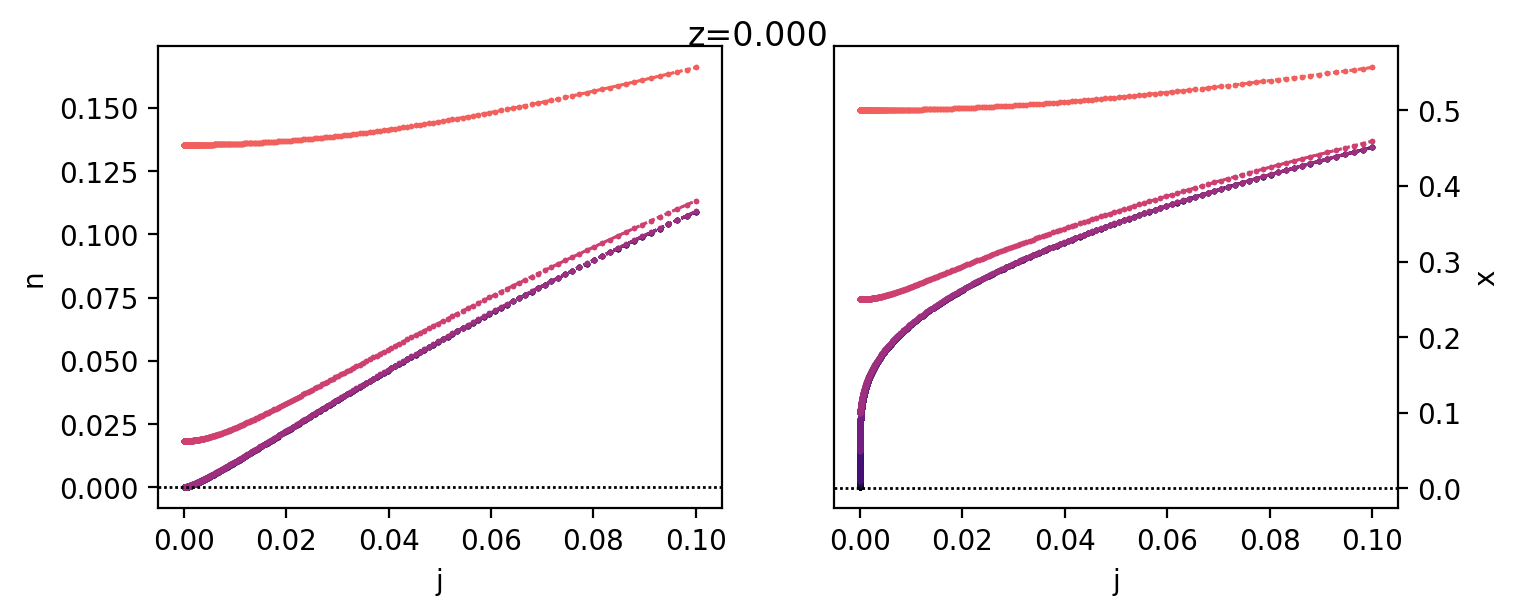
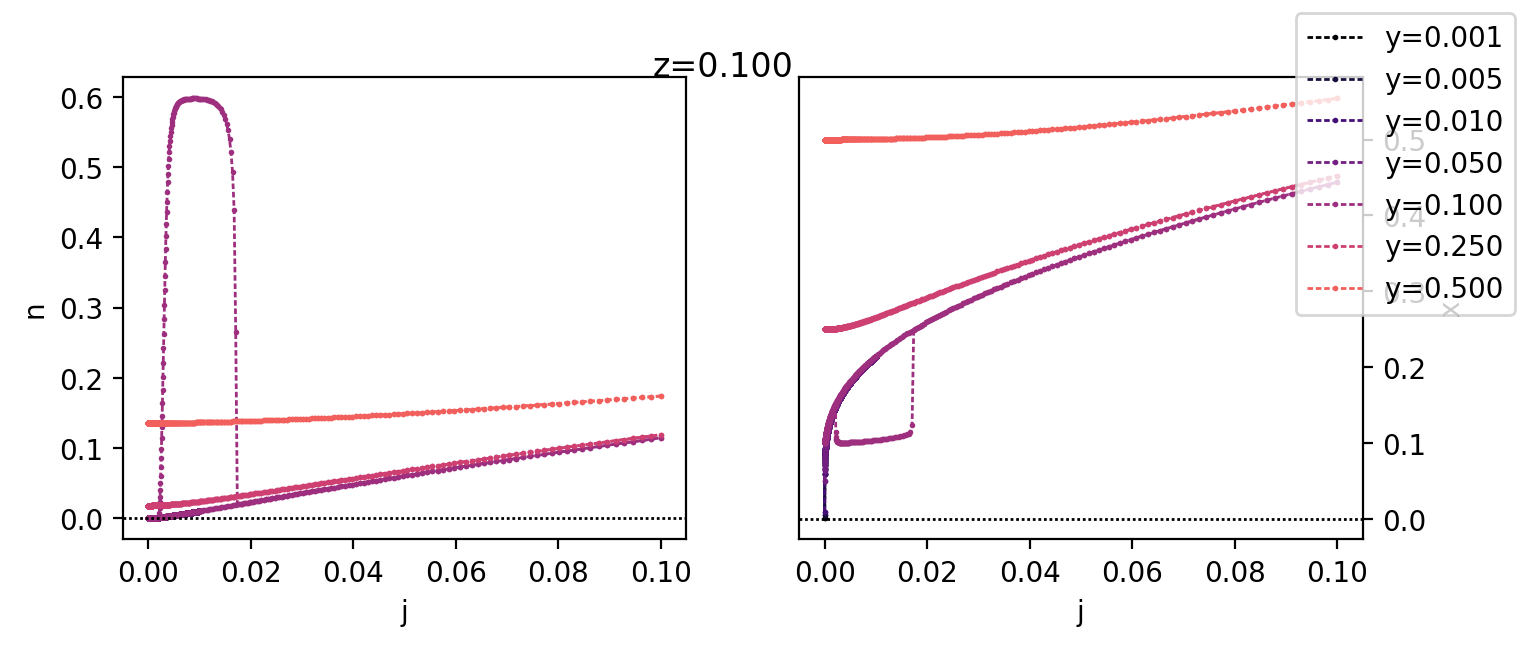
auto commit

diff --git a/bistable/defects/m_bistable_defects.py b/bistable/defects/m_bistable_defects.py
@@ -122,7 +122,7 @@ class c_bistable_defects:
     # ----------------------------------------------------------------------------------------------
 
     def solve_constant_j(self,j,n_lo_guess=0.001,n_hi_guess=0.999,max_iter=200,n_tol=1e-9,
-                         alpha=0.4,mixing='anderson'):
+                         alpha=0.4,method='anderson'):
 
         """
         we look for two solutions for n. we have to solve self-consistently, so how we find 
@@ -131,7 +131,7 @@ class c_bistable_defects:
             there is only one. if they are different, there is multistability!
         """
 
-        self.mixing = mixing
+        self.method = method
         self.alpha = alpha
         self.max_iter = max_iter
         self.n_tol = n_tol
@@ -140,15 +140,42 @@ class c_bistable_defects:
         self.j_sq = j**2
         print(f'\nconstant j: {j:9.6e}')
 
-        # low n guess
-        print(f'\nsolving for low n guess: n_in = {n_lo_guess:9.6e}')
-        n_lo, x_lo, res_lo = \
-            self._solve_self_consistent_constant_j(n_lo_guess)
+        # newtons method
+        if self.method == 'newton':
 
-        # hi n guess
-        print(f'\nsolving for high n guess: n_in = {n_hi_guess:9.6e}')
-        n_hi, x_hi, res_hi = \
-            self._solve_self_consistent_constant_j(n_hi_guess)
+            n_lo, _result = scipy.optimize.newton(func=self._const_j_kernel,x0=n_lo_guess,
+                                                    tol=n_tol,disp=False,full_output=True,
+                                                    maxiter=max_iter)
+            x_lo = find_zeros_adaptive(self._calc_dot_U_constant_j,x=self.x,args=(n_lo,))
+
+            _conv = _result.converged
+            if not _conv:
+                print('\n*** WARNING ***\nscipy.newton failed to converge for n_lo_guess')
+            print('')
+            print(_result)
+
+            n_hi, _result = scipy.optimize.newton(func=self._const_j_kernel,x0=n_hi_guess,
+                                                    tol=n_tol,disp=False,full_output=True,
+                                                    maxiter=max_iter)
+            x_hi = find_zeros_adaptive(self._calc_dot_U_constant_j,x=self.x,args=(n_hi,))
+
+            _conv = _result.converged
+            if not _conv:
+                print('\n*** WARNING ***\nscipy.newton failed to converge for n_hi_guess')
+            print('')
+            print(_result)
+
+        else:
+
+            # low n guess
+            print(f'\nsolving for low n guess: n_in = {n_lo_guess:9.6e}')
+            n_lo, x_lo, res_lo = \
+                self._solve_self_consistent_constant_j(n_lo_guess)
+
+            # hi n guess
+            print(f'\nsolving for high n guess: n_in = {n_hi_guess:9.6e}')
+            n_hi, x_hi, res_hi = \
+                self._solve_self_consistent_constant_j(n_hi_guess)
 
         n_diff = n_hi-n_lo
         x_diff = x_hi-x_lo
@@ -160,17 +187,37 @@ class c_bistable_defects:
 
         msg += f'\n\n% n_lo: {n_lo:9.6e}'
         msg += f'\n% x_lo: {x_lo:9.6e}'
-        msg += f'\n% residual_lo: {res_lo:9.6e}'
+        # msg += f'\n% residual_lo: {res_lo:9.6e}'
 
         msg += f'\n\n% n_hi: {n_hi:9.6e}'
         msg += f'\n% x_hi: {x_hi:9.6e}'
-        msg += f'\n% residual_hi: {res_hi:9.6e}'
+        # msg += f'\n% residual_hi: {res_hi:9.6e}'
 
         msg += f'\n\n% n_diff: {n_diff:9.6e}'
         msg += f'\n% x_diff: {x_diff:9.6e}'
         print(msg)
 
         return n_lo, x_lo, n_hi, x_hi
+    
+    # ----------------------------------------------------------------------------------------------
+
+    def _const_j_kernel(self,n_in):
+
+        """
+        a kernel for newton method
+        """
+
+        if n_in < 1e-16:
+            n_in = 1e-16
+
+        _x_0 = find_zeros_adaptive(self._calc_dot_U_constant_j,x=self.x,args=(n_in,))
+
+        if _x_0.size == 0:
+            msg = '\n*** ERROR ***\nno solution for x_0. increase x_max.'
+            print(msg)
+            exit()
+    
+        return self._calc_n_constant_j(_x_0,n_in)-n_in
 
     # ----------------------------------------------------------------------------------------------
 
@@ -186,7 +233,7 @@ class c_bistable_defects:
         _max_iter = self.max_iter
         _n_tol = self.n_tol
 
-        if self.mixing == 'anderson':
+        if self.method == 'anderson':
             _mixer = _c_anderson_mixer()
 
         print('\n  iter   n_out          x_0           convergence')
@@ -213,7 +260,7 @@ class c_bistable_defects:
                 break
 
             # make new guess
-            if self.mixing == 'anderson':
+            if self.method == 'anderson':
                 n_in = _mixer.mix()
             else:
                 n_in = self._simple_mixing(n_in,n_out)
@@ -368,10 +415,9 @@ def run_j(y=0.1,z=0.1):
 
         print(f'\nnow doing count: {count}')
         
-        bistable = c_bistable_defects(y=y,z=z,x_hi=1.0,num_x=10001)
+        bistable = c_bistable_defects(y=y,z=z,x_hi=10.0,num_x=10001)
         n_lo[ii], x_lo[ii], n_hi[ii], x_hi[ii] = bistable.solve_constant_j(jj,
-                                    n_lo_guess=0.1,n_hi_guess=0.5,n_tol=1e-9,alpha=0.1,
-                                    mixing='anderson')
+                                    n_lo_guess=0.001,n_hi_guess=0.6,n_tol=1e-9,method='newton')
 
         count += 1
 
@@ -406,15 +452,18 @@ def run_j_sweep_over_y(y_list=[0.0,0.1],z=0.0):
 
 if __name__ == '__main__':
 
-    z=0.10
-    run_j(0.1,z)
+    # z=0.10
+    # run_j(0.1,z)
     # run_v(y=0.1,z=z)
 
-    # y_list = [0.001,0.005,0.010,0.050,0.100,0.250,0.500]
-    # z_list = [0.0,0.001,0.005,0.010,0.050,0.100]
-    # z = 0.001
-    # # for zz in z_list:
-    # #     run_v_sweep_over_y(y_list,zz)
-    # for zz in z_list:
-    #     run_j_sweep_over_y(y_list,zz)
+    y_list = [0.001,0.005,0.010,0.050,0.100,0.250,0.500]
+    z_list = [0.0,0.001,0.005,0.010,0.050,0.100]
 
+    y_list = [0.1]
+    # z_list = [0.1]
+
+    # for zz in z_list:
+    #     run_v_sweep_over_y(y_list,zz)
+
+    for zz in z_list:
+        run_j_sweep_over_y(y_list,zz)

diff --git a/bistable/defects/plot_j_all_in_one.py b/bistable/defects/plot_j_all_in_one.py
@@ -39,7 +39,7 @@ for ii, y in enumerate(y_list):
 
     n_lo, x_lo, n_hi, x_hi, j, y, z = get_data(f'results_j_y_{y:.3f}_z_{z:.3f}.h5')
 
-    ax[0].plot(j,n_lo,c=colors[ii],lw=1,ls=(0,(2,1)),marker='o',ms=1)
+    ax[0].plot(j,n_lo,c=colors[ii],lw=1,ls=(0,(2,1)),marker='o',ms=1,label=f'y={y:.3f}')
     ax[1].plot(j,x_lo,c=colors[ii],lw=1,ls=(0,(2,1)),marker='o',ms=1)
     ax[0].plot(j,n_hi,c=colors[ii],lw=1,ls=(0,(2,1)),marker='o',ms=1)
     ax[1].plot(j,x_hi,c=colors[ii],lw=1,ls=(0,(2,1)),marker='o',ms=1)
@@ -76,6 +76,8 @@ ax[1].yaxis.tick_right()
 # for ii in range(2):
 #     ax[ii,0].set_xticklabels([])
 #     ax[ii,1].set_xticklabels([])
+
+fig.legend()
 
 plt.savefig(f'j_sweep_all_in_one.png',dpi=200,format='png',bbox_inches='tight')
 plt.show()
